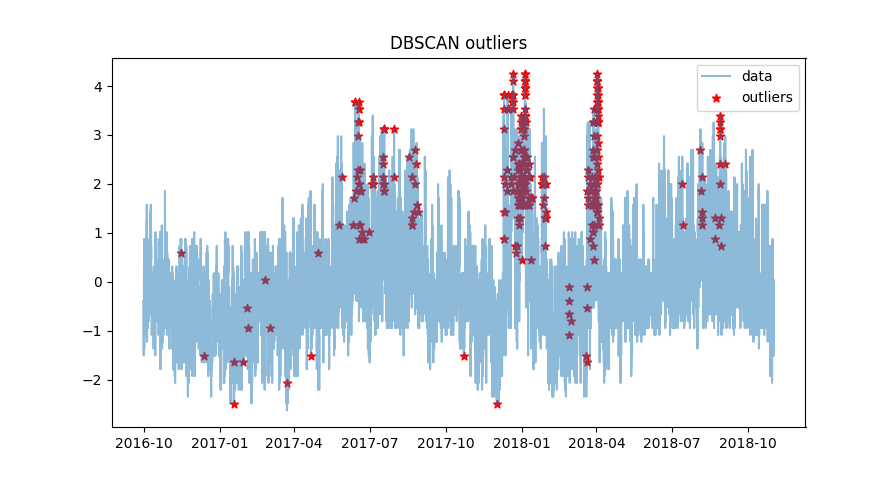
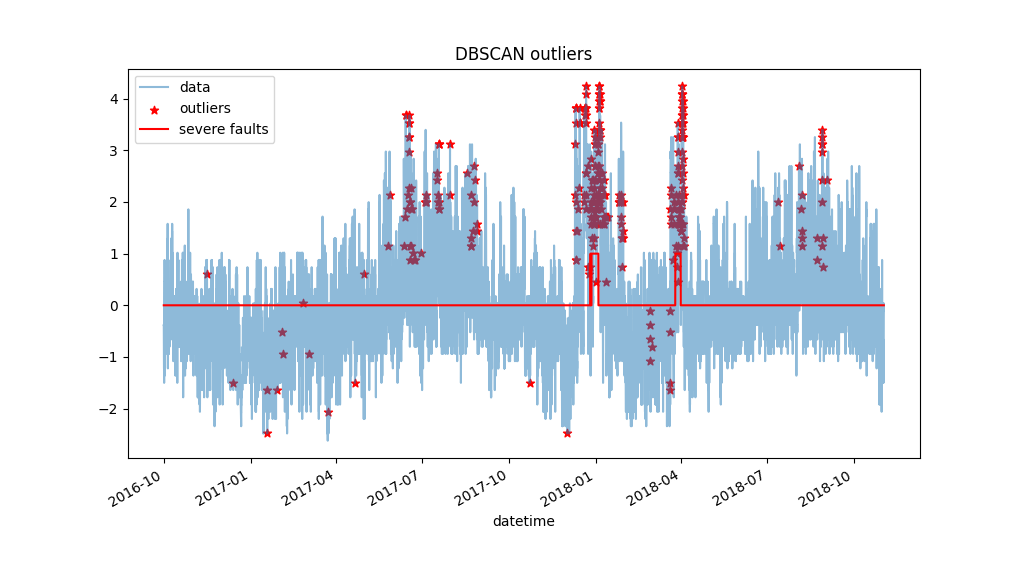
custom test models

diff --git a/Scripts/WindTurbine_FaultDetection.py b/Scripts/WindTurbine_FaultDetection.py
@@ -137,22 +137,26 @@ if sModel == 'DBSCAN':
     outlier_index = [i for i, label in enumerate(clusters.labels_) if label in outlier_labels]
     outliers = df.iloc[outlier_index, :]
 
-    plt.plot(df.iloc[:, -1], alpha=0.5, label='data')
-    plt.scatter(outliers.index, outliers.iloc[:, -1], color='red', marker='*', label='outliers')
-    plt.title('DBSCAN outliers')
-    plt.legend()
-    plt.show()
+
 
     # Count outliers per week
     nItemsPerWeek = 24 * 7
     threashold_outliers = 40
+    severe_faults = np.zeros(len(df))
     for i in range(len(df) - nItemsPerWeek):
-        dstart = df.index.iloc[i]
+        dstart = df.index[i]
         dend = dstart + datetime.timedelta(days=7)
-        outliers_week = outliers.loc[outliers.index > dstart & outliers.index < dend]
+        outliers_week = outliers.loc[(outliers.index > dstart) & (outliers.index < dend)]
+        if len(outliers_week) > threashold_outliers:
+            severe_faults[i] = 1
 
+    plt.plot(df.iloc[:, -1], alpha=0.5, label='data')
+    plt.scatter(outliers.index, outliers.iloc[:, -1], color='red', marker='*', label='outliers')
+    pd.Series(severe_faults, index= df.index).plot(color='red', label='severe faults')
+    plt.title('DBSCAN outliers')
+    plt.legend()
+    plt.show()
 
-    pass
 
 if sModel == 'TR':
     # Reconstructor: Either output -> output or input -> output
